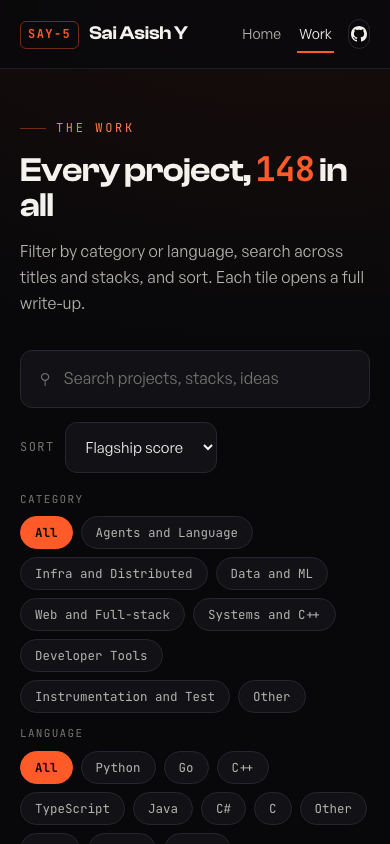
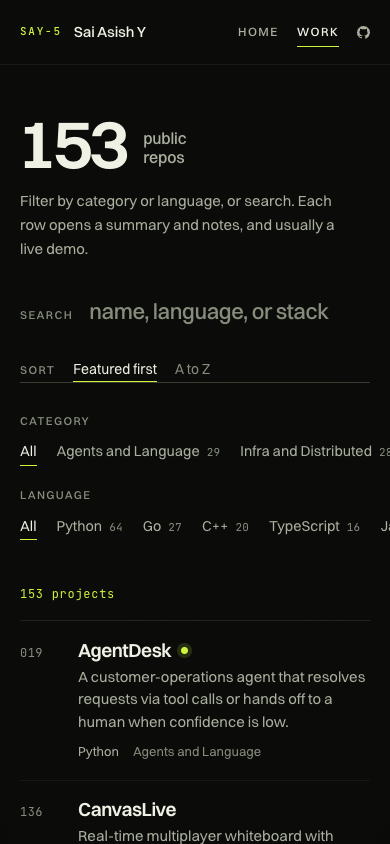
chore: plain stack line, trimmed stats, fresh doc screenshots

diff --git a/src/data/stats.ts b/src/data/stats.ts
@@ -1,11 +1,8 @@
-import { projects, categories, languages } from './projects';
+import { projects, categories } from './projects';
 
 export type Bucket = { label: string; count: number };
 
 export const totalProjects = projects.length;
-
-// "Other" is a bucket, not a language.
-export const languageCount = languages.filter((l) => l !== 'Other').length;
 
 export const categoryBuckets: Bucket[] = categories
   .map((label) => ({
@@ -14,12 +11,3 @@ export const categoryBuckets: Bucket[] = categories
   }))
   .filter((b) => b.count > 0)
   .sort((a, b) => b.count - a.count);
-
-export const languageBuckets: Bucket[] = languages
-  .map((label) => ({
-    label,
-    count: projects.filter((p) => p.language === label).length,
-  }))
-  .sort((a, b) => b.count - a.count);
-
-export const topLanguages = languageBuckets.slice(0, 8);

diff --git a/src/pages/Detail.tsx b/src/pages/Detail.tsx
@@ -117,13 +117,7 @@ export default function Detail() {
           <aside className="detail__aside">
             <div className="detail__panel">
               <h2 className="detail__panel-title">Stack</h2>
-              <ul className="detail__stack">
-                {project.stack.map((s) => (
-                  <li key={s} className="chip">
-                    {s}
-                  </li>
-                ))}
-              </ul>
+              <p className="detail__stack">{project.stack.join(', ')}</p>
             </div>
             <div className="detail__panel">
               <h2 className="detail__panel-title">Links</h2>

diff --git a/src/styles/detail.css b/src/styles/detail.css
@@ -178,9 +178,9 @@
   font-weight: 500;
 }
 .detail__stack {
-  display: flex;
-  flex-wrap: wrap;
-  gap: 6px;
+  font-size: 15px;
+  line-height: 1.6;
+  color: var(--paper-dim);
 }
 .detail__link-row {
   display: flex;
